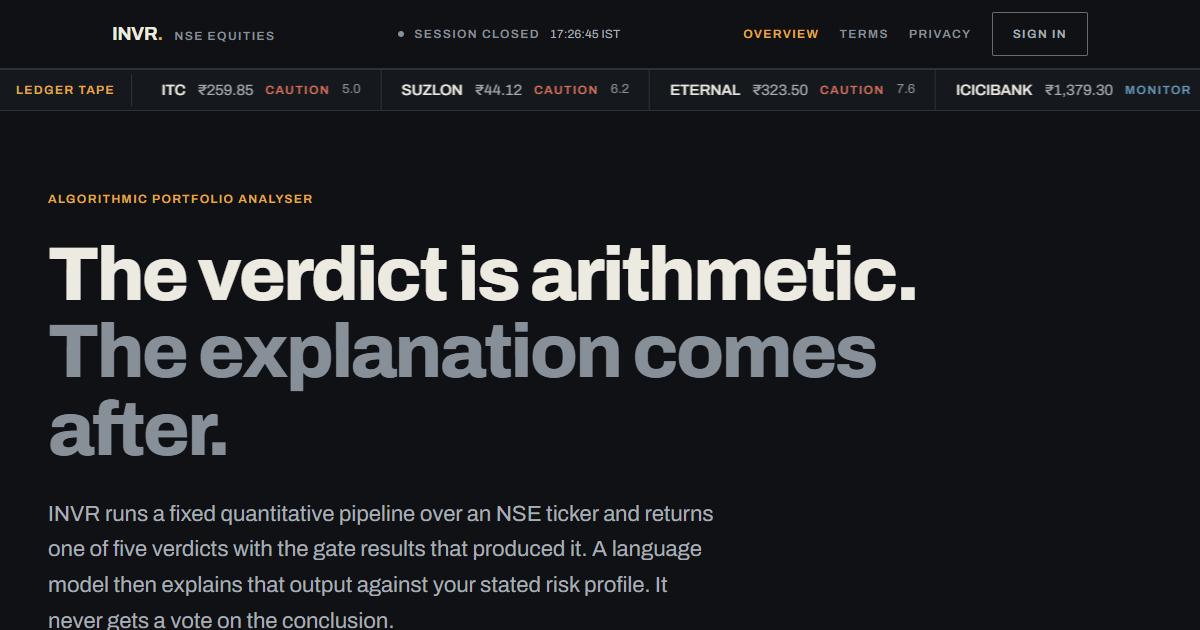
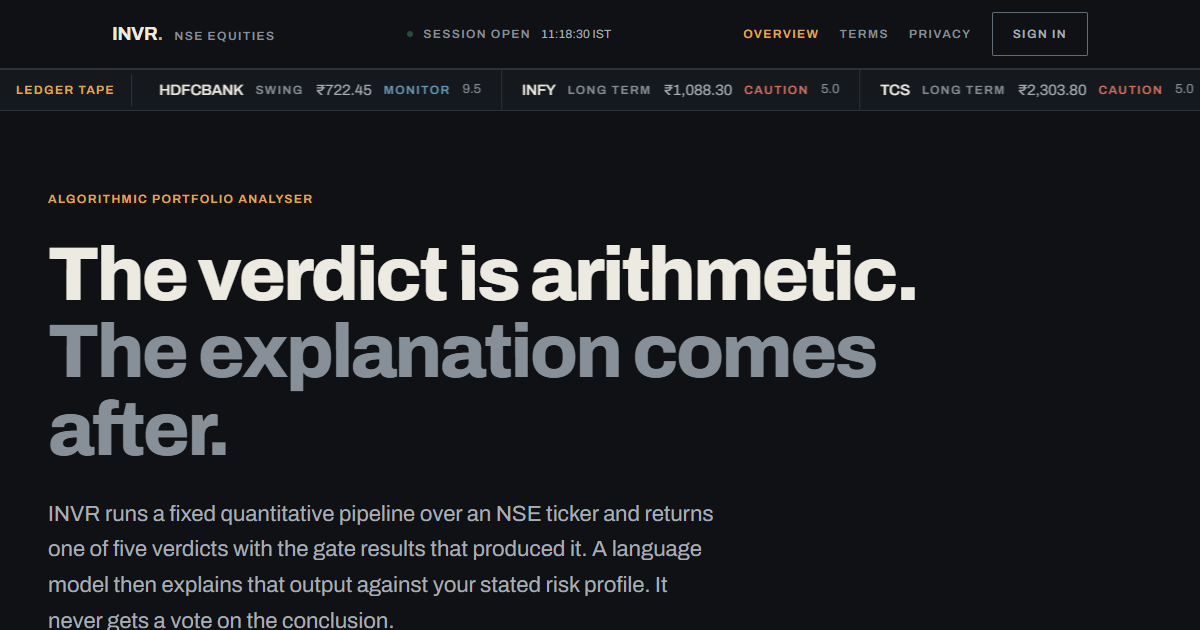
Ledger tape: one entry per stock, with its horizon

Changed region(s): [[0.1233, 0.1206, 1.0, 0.1508], [0.3392, 0.0302, 0.5242, 0.0603]]

diff --git a/frontend/src/components/TickerTape.tsx b/frontend/src/components/TickerTape.tsx
@@ -13,6 +13,7 @@ import { asNum, asStr, inr, verdictInk } from '../format';
 
 type TapeItem = {
   ticker: string;
+  horizon: string;
   price: number | null;
   verdict: string;
   score: number | null;
@@ -29,6 +30,7 @@ const TapeRow: React.FC<{ items: TapeItem[]; ariaHidden: boolean }> = ({ items, 
         className="flex items-center gap-3 whitespace-nowrap border-r border-rule px-5 py-2"
       >
         <span className="num text-sm font-medium text-fg">{item.ticker}</span>
+        {item.horizon && <span className="label">{item.horizon}</span>}
         {item.price != null && (
           <span className="num text-sm text-fg-2">{inr(item.price)}</span>
         )}
@@ -48,8 +50,19 @@ const TapeRow: React.FC<{ items: TapeItem[]; ariaHidden: boolean }> = ({ items, 
 );
 
 export const TickerTape: React.FC<{ rows: LedgerRow[] }> = ({ rows }) => {
-  const items: TapeItem[] = rows.map((r) => ({
+  // One entry per stock, its most recent run (rows arrive newest first). The
+  // ledger keeps a row per horizon, so the same stock used to appear twice
+  // with two different verdicts and no way to tell which call was which.
+  const seen = new Set<string>();
+  const latest = rows.filter((r) => {
+    if (seen.has(r.ticker)) return false;
+    seen.add(r.ticker);
+    return true;
+  });
+
+  const items: TapeItem[] = latest.map((r) => ({
     ticker: r.ticker.split('.')[0],
+    horizon: String(r.timeframe ?? '').replace('_', ' '),
     price: asNum(r.silver_state?.current_price),
     verdict: asStr(r.gold_verdict?.verdict) ?? 'NO VERDICT',
     score: asNum(r.gold_verdict?.confidence_score),
